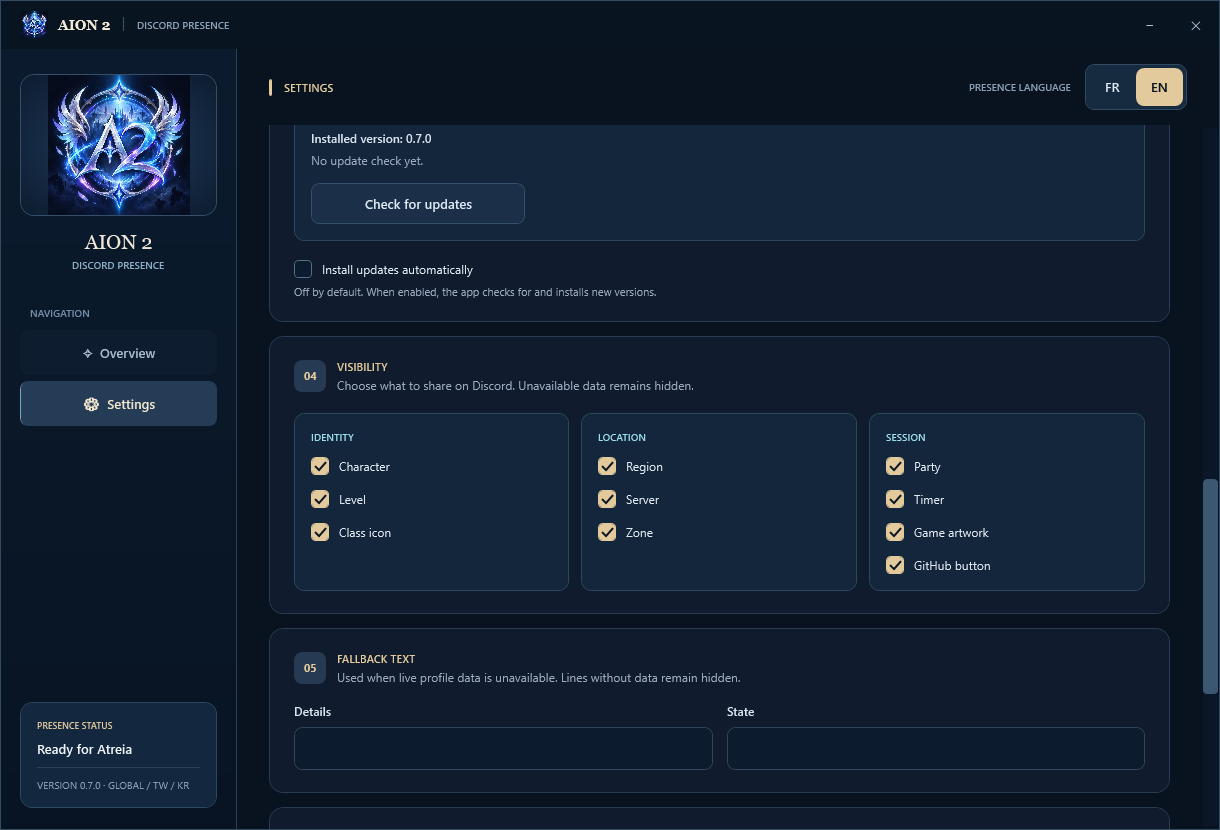
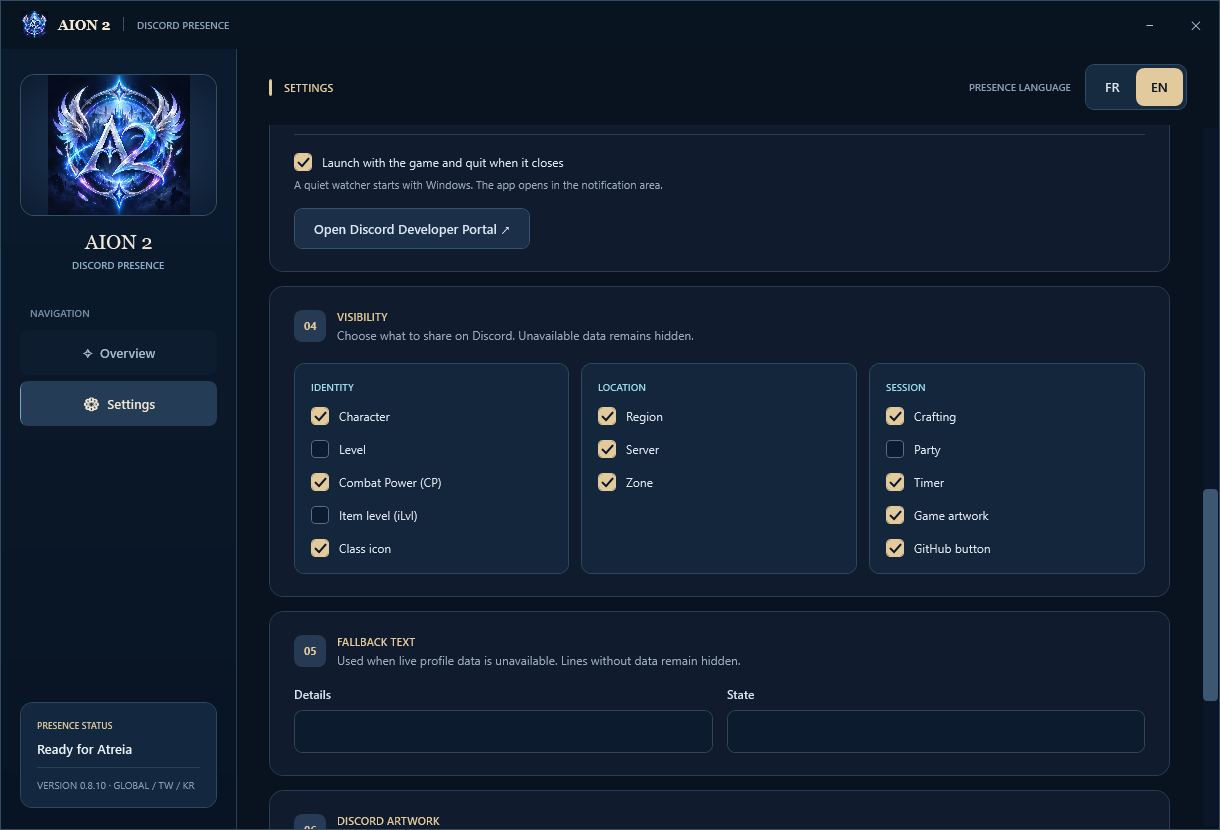
Document crafting presence and update visibility previews for 0.8.10

diff --git a/README.md b/README.md
@@ -20,7 +20,7 @@ A Discord developer account is not required. The shared Application ID and game/
 
 ## Download and first setup
 
-1. Download [AionPresence-Setup-0.8.9.exe](https://github.com/KaiiZzeR971/AION-2-Discord-Rich-Presence/releases/download/v0.8.9/AionPresence-Setup-0.8.9.exe) from this repository's Releases.
+1. Download [AionPresence-Setup-0.8.10.exe](https://github.com/KaiiZzeR971/AION-2-Discord-Rich-Presence/releases/download/v0.8.10/AionPresence-Setup-0.8.10.exe) from this repository's Releases.
 2. Run the installer. Installation is required. The app is installed for your Windows account and added to the Start menu.
 3. For Global automatic detection, complete the [Npcap setup](#npcap-setup-for-global) below before starting the game.
 4. Open **AION 2 Discord Presence** from the Start menu once. Select **EN** or **FR**, leave the client selection on **Auto**, and choose which fields to display in Settings.
@@ -29,7 +29,7 @@ A Discord developer account is not required. The shared Application ID and game/
 
 After setup, the app launches quietly near the Windows clock when the game starts. You can open its window from the notification icon. Preferences are saved automatically. Unavailable data and disabled fields are omitted from the presence.
 
-The installer is currently **unsigned**, so Windows may display a warning. A [SHA-256 checksum](https://github.com/KaiiZzeR971/AION-2-Discord-Rich-Presence/releases/download/v0.8.9/AionPresence-Setup-0.8.9.sha256) is provided alongside the installer.
+The installer is currently **unsigned**, so Windows may display a warning. A [SHA-256 checksum](https://github.com/KaiiZzeR971/AION-2-Discord-Rich-Presence/releases/download/v0.8.10/AionPresence-Setup-0.8.10.sha256) is provided alongside the installer.
 
 ## Npcap setup for Global
 
@@ -68,12 +68,14 @@ You can install the presence app on another local disk, including folders with s
 - **Party membership:** the app reads your own Party Finder room's roster and member updates. It displays the count and capacity, distinguishes the recruitment lobby from the dungeon group, and clears the count when you leave. Initial support for normal parties outside the Party Finder is also included, with a solo normal party tested on Global Steam EU. The **Party** visibility option controls this field.
 - **Party display:** Party or Lobby and the native member counter occupy their own presence line. Character and location information share the preceding line while grouped. The timer remains separate.
 - **Region and server:** compact format such as `EU · Israphel - Safe Haven`. The zone shows only its name and uses a hyphen separator. It appears below character information outside a group, or alongside character information when the group occupies its own line. Empty or hidden fields leave no separator behind.
+- **Crafting:** while a recognized recipe is being crafted, the second line shows **Crafting** and the crafting icon replaces the class icon. The location and class return after the last result. No item count is shared. Enabled by default and configurable in Settings; crafting takes priority over the location and party line.
 - **Session timer:** based on the game process start time. Reopening the presence app while the same game session is running preserves the timer.
 
 Character identity, class, level, item level, CP, server and the last detected map are restored when the app restarts during the same game session. The cached server remains available if the online search cannot be reached. A new game session does not reuse an old profile. On a fresh late start, the game presence works while automatic character details are pending; previously sent packets cannot be recovered.
 
 ### Current limitations
 
+- Crafting has been validated with Sapphire Ring and Sapphire Decoration on Global EU, including a batch stopped after a completed quality-upgraded item. Other professions and TW/KR remain unverified. If an individual craft is interrupted without a recognized result, the activity expires within one minute.
 - Location detection follows the game's scene messages. The displayed place is the **last detected loaded destination**. Continuous updates while walking between areas are not yet verified.
 - A destination missing from the catalog shows a recognized map name. If the map is also unknown, the location stays hidden.
 - Party detection has been tested with a five-player Party Finder group and the creation/departure of a solo normal party on Global Steam EU. Normal parties with several players, additional member formats, raids, TW/KR, and other regions still require validation. After reopening the app, the count stays hidden until a recognized fresh roster is received. Changes depend on membership messages sent by the game.
@@ -81,7 +83,7 @@ Character identity, class, level, item level, CP, server and the last detected m
 
 ## Features and settings
 
-Default visibility: character, CP, class icon, region, server, zone, timer, game artwork and GitHub button enabled. Character level, item level and party disabled. Each option can be changed in Settings; updates preserve saved preferences.
+Default visibility: character, CP, class icon, region, server, zone, crafting, timer, game artwork and GitHub button enabled. Character level, item level and party disabled. Each option can be changed in Settings; updates preserve saved preferences.
 
 - French or English interface and presence, including localized Global destination names.
 - Visibility controls for character, level, gear score, class icon, region, server, location, party, timer, artwork, and download button.
@@ -152,7 +154,7 @@ Aucun compte développeur Discord n'est nécessaire. L'Application ID partagé e
 
 ### Télécharger et configurer
 
-1. Téléchargez [AionPresence-Setup-0.8.9.exe](https://github.com/KaiiZzeR971/AION-2-Discord-Rich-Presence/releases/download/v0.8.9/AionPresence-Setup-0.8.9.exe) depuis les Releases de ce dépôt.
+1. Téléchargez [AionPresence-Setup-0.8.10.exe](https://github.com/KaiiZzeR971/AION-2-Discord-Rich-Presence/releases/download/v0.8.10/AionPresence-Setup-0.8.10.exe) depuis les Releases de ce dépôt.
 2. Lancez l'installateur. L'installation est obligatoire. L'application est installée pour votre compte Windows et ajoutée au menu Démarrer.
 3. Pour la détection automatique sur Global, effectuez la [configuration Npcap](#configuration-de-npcap-pour-global) ci-dessous avant de lancer le jeu.
 4. Ouvrez une première fois **AION 2 Discord Presence** depuis le menu Démarrer. Choisissez **FR** ou **EN**, laissez la version du client sur **Auto** et choisissez les champs à afficher dans les paramètres.
@@ -161,7 +163,7 @@ Aucun compte développeur Discord n'est nécessaire. L'Application ID partagé e
 
 Après cette configuration, l'application démarre discrètement près de l'horloge Windows avec le jeu. Son icône de notification permet de rouvrir la fenêtre. Les préférences sont sauvegardées automatiquement. Les champs indisponibles ou désactivés sont omis de la présence.
 
-L'installateur est actuellement **non signé** ; Windows peut afficher un avertissement. Une [somme SHA-256](https://github.com/KaiiZzeR971/AION-2-Discord-Rich-Presence/releases/download/v0.8.9/AionPresence-Setup-0.8.9.sha256) accompagne l'installateur.
+L'installateur est actuellement **non signé** ; Windows peut afficher un avertissement. Une [somme SHA-256](https://github.com/KaiiZzeR971/AION-2-Discord-Rich-Presence/releases/download/v0.8.10/AionPresence-Setup-0.8.10.sha256) accompagne l'installateur.
 
 ### Configuration de Npcap pour Global
 
@@ -200,12 +202,14 @@ Vous pouvez installer l'application de présence sur un autre disque local, y co
 - **Membres du groupe :** l'application lit la liste de votre propre salon du Party Finder et ses mises à jour. Elle affiche le nombre de membres et la capacité, distingue le salon de recrutement du groupe en donjon et efface le compteur à votre départ. Une première prise en charge des groupes classiques hors Party Finder est aussi incluse, avec un groupe solo classique testé sur Global Steam EU. L'option d'affichage **Groupe** contrôle ce champ.
 - **Affichage du groupe :** Groupe ou Salon et le compteur natif occupent leur propre ligne dans la présence. Les informations du personnage et du lieu sont réunies sur la ligne précédente lorsque vous êtes en groupe. Le chronomètre reste séparé.
 - **Région et serveur :** format compact comme `EU · Israphel - Safe Haven`, avec uniquement le nom de la zone et un trait d'union pour la séparer du serveur, sous les informations du personnage hors groupe, ou avec le personnage lorsque le groupe occupe sa propre ligne. Les champs vides ou masqués ne laissent aucun séparateur.
+- **Fabrication :** pendant une recette reconnue, la deuxième ligne affiche **Fabrication en cours** et son icône remplace celle de la classe. Le lieu et la classe reviennent après le dernier résultat. Aucun nombre d’objets n’est partagé. Activée par défaut et configurable dans les paramètres ; la fabrication est prioritaire sur la ligne du lieu et du groupe.
 - **Chrono de session :** fondé sur l'heure de lancement du processus du jeu. Rouvrir l'application pendant la même session conserve le chrono.
 
 L'identité du personnage, la classe, le niveau, l'iLvl, le CP, le serveur et la dernière carte détectée sont restaurés si l'application redémarre pendant la même session de jeu. Le serveur sauvegardé reste disponible si la recherche en ligne échoue. Une nouvelle session ne reprend pas l'ancien profil. Lors d'un premier lancement en cours de partie, la présence du jeu fonctionne en attendant les détails automatiques du personnage ; les messages déjà transmis ne peuvent pas être récupérés.
 
 ### Limites actuelles
 
+- La fabrication a été validée avec Sapphire Ring et Sapphire Decoration sur Global EU, y compris une série arrêtée après un objet terminé de qualité supérieure. Les autres métiers et les clients TW/KR restent à valider. Si une fabrication individuelle est interrompue sans résultat reconnu, l’activité expire en une minute au maximum.
 - La détection du lieu suit les messages de chargement du jeu. Le lieu affiché est la **dernière destination chargée détectée**. Les changements continus à pied entre les lieux ne sont pas encore validés.
 - Une destination absente du catalogue affiche le nom de la carte si elle est reconnue. Si la carte est également inconnue, le lieu reste masqué.
 - La détection du groupe a été testée avec un groupe de cinq joueurs du Party Finder ainsi qu'à la création et à la sortie d'un groupe solo classique sur Global Steam EU. Les groupes classiques à plusieurs joueurs, les autres formats de membres, raids, clients TW/KR et autres régions restent à valider. Après une réouverture de l'application, le compteur reste masqué jusqu'à réception d'une nouvelle liste reconnue. Les changements dépendent des messages de membres transmis par le jeu.
@@ -213,10 +217,10 @@ L'identité du personnage, la classe, le niveau, l'iLvl, le CP, le serveur et la
 
 ### Fonctions et paramètres
 
-Affichage initial : personnage, CP, icône de classe, région, serveur, zone, chrono, image du jeu et bouton GitHub activés. Niveau du personnage, iLvl et groupe désactivés. Chaque option peut être modifiée dans les paramètres ; les mises à jour conservent les préférences enregistrées.
+Affichage initial : personnage, CP, icône de classe, région, serveur, zone, fabrication, chrono, image du jeu et bouton GitHub activés. Niveau du personnage, iLvl et groupe désactivés. Chaque option peut être modifiée dans les paramètres ; les mises à jour conservent les préférences enregistrées.
 
 - Interface et présence en français ou en anglais, avec traduction des destinations Global.
-- Choix des champs affichés : personnage, niveau, score d'équipement, icône de classe, région, serveur, lieu, groupe, chrono, image et bouton de téléchargement.
+- Choix des champs affichés : personnage, niveau, score d'équipement, icône de classe, région, serveur, lieu, groupe, fabrication, chrono, image et bouton de téléchargement.
 - Image du jeu et icônes des classes, dont Brawler.
 - Lancement automatique dans la zone de notification avec `Aion2.exe` et fermeture quand le jeu se ferme.
 - Préférences sauvegardées et bouton de fermeture configurable : demander, réduire dans la zone de notification ou quitter.
